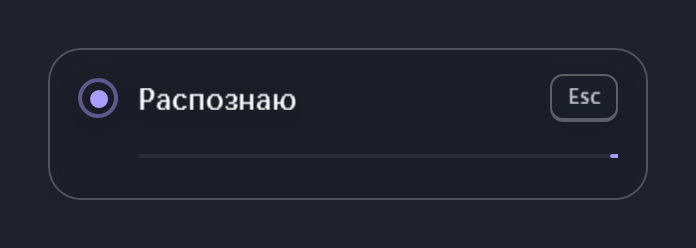
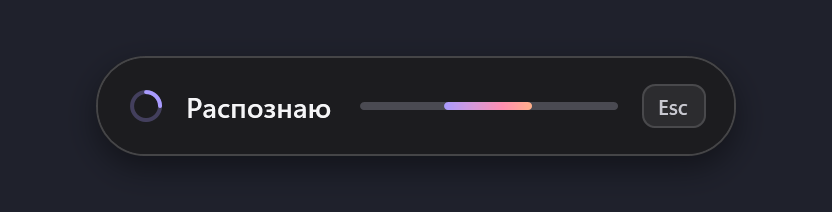
docs: Voice Input 1.1.0 — changelog, screenshots of the new interface, version
- version 1.1.0; the release script takes the version from Directory.Build.props
- README, architecture notes and the installer read-me describe the new interface
- product screenshots and banners are re-rendered from the real windows
- bundled documents avoid the letter yo

diff --git a/docs/architecture.html b/docs/architecture.html
@@ -15,7 +15,7 @@
 <body><main class="wrap">
 <div class="eyebrow">Architecture 0.3 · working local-first MVP</div>
 <h1 class="title"><span class="pulse"></span>Voice Input</h1>
-<p class="sub">Нативный Windows-путь: hotkey → аудио → локальный GigaAM → безопасная вставка в сохранённое поле.</p>
+<p class="sub">Нативный Windows-путь: hotkey → аудио → локальный GigaAM → безопасная вставка в сохраненное поле.</p>
 <div class="stage">
 <svg viewBox="0 0 1360 790" role="img" aria-label="Архитектура Voice Input">
 <defs>

diff --git a/tools/render-github-assets.py b/tools/render-github-assets.py
@@ -98,8 +98,27 @@ def base(size: tuple[int, int], margin: int) -> Image.Image:
     return im
 
 
+BACKDROP = (31, 33, 44)
+
+
+def overlay_tile(path: Path, size: tuple[int, int]) -> Image.Image:
+    """Снимок оверлея на плитке одного размера: окно оверлея прозрачное, высота зависит от состояния."""
+    shot = Image.open(path).convert("RGB")
+    tile = Image.new("RGB", (size[0] * 2, size[1] * 2), BACKDROP)
+    tile.paste(shot, ((tile.width - shot.width) // 2, (tile.height - shot.height) // 2))
+    return tile.resize(size, Image.Resampling.LANCZOS)
+
+
+def rounded(image: Image.Image, radius: int) -> Image.Image:
+    mask = Image.new("L", image.size, 0)
+    ImageDraw.Draw(mask).rounded_rectangle((0, 0, image.width - 1, image.height - 1), radius=radius, fill=255)
+    result = image.convert("RGBA")
+    result.putalpha(mask)
+    return result
+
+
 def render_product_demo() -> None:
-    """Настоящий интерфейс 1.0: слева состояния оверлея, справа окно настроек."""
+    """Настоящий интерфейс 1.1: слева шесть состояний оверлея, справа окно настроек."""
     size = (1440, 800)
     im = Image.new("RGB", size, PAPER)
     draw = ImageDraw.Draw(im)
@@ -107,41 +126,47 @@ def render_product_demo() -> None:
     draw.rectangle((0, 0, size[0], 172), fill=INK)
     draw.rectangle((0, 0, 12, size[1]), fill=INDIGO)
     draw.rectangle((12, 0, 16, size[1]), fill=SIGNAL)
-    tracking(draw, (74, 38), "VOICE INPUT 1.0 / WINDOWS 10 И 11", font(17), MUTED, 2)
+    tracking(draw, (74, 38), "VOICE INPUT 1.1 / WINDOWS 10 И 11", font(17), MUTED, 2)
     draw.text((70, 76), "Тихий оверлей и одно небольшое окно настроек.", font=font(46), fill=WHITE)
 
     product = OUT / "product"
-    overlay_w, overlay_h = 400, 144
+    # Снимки сделаны в 200 %: плитка ровно вдвое меньше, без повторной интерполяции текста.
+    tile_w, tile_h = 416, 125
+    columns = (70, 510)
+    rows = (214, 387, 560)
     cells = [
-        (70, 214, "01 / СЛУШАЮ", "listening.png"),
-        (500, 214, "02 / РАСПОЗНАЮ", "processing.png"),
-        (70, 414, "03 / ГОТОВО", "success.png"),
-        (500, 414, "04 / ОШИБКА ПРОСТЫМИ СЛОВАМИ", "error.png"),
+        ("01 / СЛУШАЮ", "listening.png"),
+        ("02 / РАСПОЗНАЮ", "processing.png"),
+        ("03 / ВСТАВЛЯЮ ТЕКСТ", "inserting.png"),
+        ("04 / ГОТОВО", "success.png"),
+        ("05 / НЕ УСЛЫШАЛ", "nospeech.png"),
+        ("06 / ОШИБКА ПРОСТЫМИ СЛОВАМИ", "error.png"),
     ]
-    for x, y, label, filename in cells:
+    im = im.convert("RGBA")
+    draw = ImageDraw.Draw(im)
+    for index, (label, filename) in enumerate(cells):
+        x, y = columns[index % 2], rows[index // 2]
         tracking(draw, (x, y), label, font(15), PAPER_MUTED, 2)
-        shot = Image.open(product / filename).convert("RGB").resize((overlay_w, overlay_h), Image.Resampling.LANCZOS)
-        draw.rounded_rectangle((x - 1, y + 30, x + overlay_w, y + 30 + overlay_h), radius=14, outline=PAPER_LINE, width=1)
-        im.paste(shot, (x, y + 31))
+        im.alpha_composite(rounded(overlay_tile(product / filename, (tile_w, tile_h)), 12), (x, y + 30))
 
     settings = Image.open(product / "settings.png").convert("RGB")
-    settings_w = 286
-    settings_h = round(settings.height * settings_w / settings.width)
+    settings_h = 471
+    settings_w = round(settings.width * settings_h / settings.height)
     settings = settings.resize((settings_w, settings_h), Image.Resampling.LANCZOS)
-    sx, sy = 1050, 214
-    tracking(draw, (sx, sy), "05 / НАСТРОЙКИ", font(15), PAPER_MUTED, 2)
+    sx, sy = 1370 - settings_w, 214
+    tracking(draw, (sx, sy), "07 / НАСТРОЙКИ", font(15), PAPER_MUTED, 2)
     shadow = Image.new("RGBA", size, (0, 0, 0, 0))
-    ImageDraw.Draw(shadow).rounded_rectangle((sx - 8, sy + 34, sx + settings_w + 8, sy + 38 + settings_h), radius=18, fill=(18, 28, 63, 40))
-    im = Image.alpha_composite(im.convert("RGBA"), shadow.filter(ImageFilter.GaussianBlur(14))).convert("RGB")
+    ImageDraw.Draw(shadow).rounded_rectangle((sx - 6, sy + 36, sx + settings_w + 6, sy + 40 + settings_h), radius=18, fill=(18, 28, 63, 46))
+    im = Image.alpha_composite(im, shadow.filter(ImageFilter.GaussianBlur(14)))
+    im.alpha_composite(rounded(settings, 10), (sx, sy + 30))
     draw = ImageDraw.Draw(im)
-    im.paste(settings, (sx, sy + 31))
 
     draw.line((70, 742, 1370, 742), fill=PAPER_LINE, width=2)
     tracking(draw, (70, 760), "ЗАПИСЬ / РАСПОЗНАВАНИЕ / ВСТАВКА", font(16), PAPER_INK, 2)
     footnote = "СНЯТО С НАСТОЯЩИХ ОКОН"
     footnote_x = 1370 - tracking_width(draw, footnote, font(16), 2)
     tracking(draw, (footnote_x, 760), footnote, font(16), PAPER_MUTED, 2)
-    im.save(OUT / "voice-input-product.png", optimize=True, quality=94)
+    im.convert("RGB").save(OUT / "voice-input-product.png", optimize=True, quality=94)
 
 
 if __name__ == "__main__":

diff --git a/scripts/build-release.py b/scripts/build-release.py
@@ -6,6 +6,7 @@ import hashlib
 import json
 import os
 from pathlib import Path
+import re
 import shutil
 import struct
 import subprocess
@@ -98,17 +99,31 @@ def publish(project: Path, output: Path, dotnet: Path, root: Path) -> None:
     )
 
 
+def project_version(root: Path) -> str:
+    """The version the application is built with: one source for the executable and the installer name."""
+    properties = (root / "Directory.Build.props").read_text(encoding="utf-8")
+    match = re.search(r"<Version>([^<]+)</Version>", properties)
+    if match is None:
+        raise RuntimeError("Directory.Build.props has no <Version>.")
+    return match.group(1).strip()
+
+
 def main() -> int:
+    root = Path(__file__).resolve().parents[1]
     parser = argparse.ArgumentParser(description="Build the self-contained Voice Input Windows installer.")
-    parser.add_argument("--version", default="1.0.0")
+    parser.add_argument("--version", default=project_version(root))
     parser.add_argument(
         "--with-local",
         action="store_true",
         help="Also bundle the optional local (GigaAM) engine: worker, runtime archive and model (about 300 MB).",
     )
     args = parser.parse_args()
+    if args.version != project_version(root):
+        raise RuntimeError(
+            f"--version {args.version} does not match Directory.Build.props ({project_version(root)}): "
+            "the settings window would show a different version than the installer."
+        )
 
-    root = Path(__file__).resolve().parents[1]
     dotnet = Path(os.environ.get("DOTNET_EXE", r"C:\Program Files\dotnet\dotnet.exe"))
     if not dotnet.is_file():
         raise FileNotFoundError(dotnet)

diff --git a/README.md b/README.md
@@ -24,13 +24,13 @@ Voice Input работает в системном трее. Речь распо
 
 Чтобы отменить запись или распознавание, нажмите `Esc`: текст не вставится, даже если ответ придет позже.
 
-![Оверлей и настройки Voice Input 1.0](<docs/assets/voice-input-product.png>)
+![Оверлей и настройки Voice Input 1.1](<docs/assets/voice-input-product.png>)
 
-*Оверлей в четырех состояниях и окно настроек Voice Input 1.0.*
+*Оверлей в шести состояниях и окно настроек Voice Input 1.1.*
 
 ## Что предусмотрено
 
-- **Видно, что происходит.** Оверлей показывает этап диктовки, таймер и уровень голоса, не забирая фокус. Поддерживается высокая контрастность.
+- **Видно, что происходит.** Оверлей показывает этап диктовки, таймер и уровень голоса, не забирая фокус и не перехватывая клики мыши. У каждого этапа свой знак, а не только цвет. Поддерживается высокая контрастность.
 - **Проверка окна перед вставкой.** Если активно другое окно, текст не вставляется.
 - **Восстановление буфера обмена.** После вставки возвращается прежнее содержимое, если за это время оно не изменилось.
 - **До 10 минут на запись.** На лимите запись останавливается, сказанное распознается и вставляется.
@@ -43,10 +43,12 @@ Voice Input работает в системном трее. Речь распо
 
 Откройте настройки двойным щелчком по значку Voice Input в трее.
 
-- **API-ключ OpenAI:** добавьте или замените ключ кнопкой «Сохранить». Доступны «Проверить» и «Удалить ключ»; после сохранения проверка запускается автоматически.
+- **API-ключ OpenAI:** добавьте или замените ключ кнопкой «Сохранить» или клавишей `Enter`. Доступны «Проверить» и «Удалить ключ»; после сохранения проверка запускается автоматически.
 - **Язык речи:** «Определять автоматически», «Русский», «English», «Українська» или «Deutsch» — подсказка для облачного распознавания.
 - **Микрофон:** конкретное устройство или «По умолчанию в Windows». Новый выбор применяется со следующей записи.
 - **Автозапуск:** «Запускать вместе с Windows».
+
+Окном можно управлять с клавиатуры: `Tab` переходит между полями, `Esc` закрывает окно.
 
 Микрофон можно сменить и из меню трея. Если выбранное устройство не подключено к началу записи, используется микрофон Windows по умолчанию.
 
@@ -54,14 +56,14 @@ Voice Input работает в системном трее. Речь распо
 
 Нужны Windows 10 1809+ / 11 x64, микрофон, интернет и собственный API-ключ OpenAI. Распознавание оплачивается с вашего аккаунта OpenAI.
 
-1. Откройте [последний релиз](https://github.com/pavel-logachev/voice-input/releases/latest) и скачайте `VoiceInput-Setup-1.0.0.exe`.
+1. Откройте [последний релиз](https://github.com/pavel-logachev/voice-input/releases/latest) и скачайте установщик `VoiceInput-Setup-<версия>.exe`.
 2. Запустите установщик. Права администратора не нужны. Установщик пока не подписан сертификатом, поэтому Windows SmartScreen может предупредить о неизвестном издателе.
 3. При первом запуске откроется окно настроек. Вставьте API-ключ OpenAI (начинается с `sk-`) и нажмите «Сохранить» — ключ сразу проверится.
 4. Поставьте курсор в любое поле ввода и зажмите `Ctrl + Shift + Space`.
 
 Перед запуском установщика сверьте его SHA-256 со значением на странице релиза.
 
-При обновлении с 0.9.x устанавливайте новую версию поверх старой: ключ и настройки сохранятся. При удалении программы ключ удаляется вместе с ней.
+При обновлении с 1.0.0 или 0.9.x устанавливайте новую версию поверх старой: ключ и настройки сохранятся. При удалении программы ключ удаляется вместе с ней.
 
 ## Приватность
 
@@ -96,13 +98,15 @@ dotnet build VoiceInput.sln -c Release
 dotnet test VoiceInput.sln -c Release --no-build
 ```
 
-Автотесты проверяют диктовку и отмену, запись на подставном устройстве, клиент OpenAI, хранение ключа и настроек, горячие клавиши и вставку текста. [CI](https://github.com/pavel-logachev/voice-input/actions/workflows/ci.yml) собирает решение и запускает тесты на Windows при каждом push и pull request в `main`.
+Автотесты проверяют диктовку и отмену, запись на подставном устройстве, клиент OpenAI, хранение ключа и настроек, горячие клавиши, вставку текста и контраст цветов интерфейса. [CI](https://github.com/pavel-logachev/voice-input/actions/workflows/ci.yml) собирает решение и запускает тесты на Windows при каждом push и pull request в `main`.
 
-Отрисовка настоящих окон в PNG без записи речи:
+Отрисовка настоящих окон и меню трея в PNG без записи речи:
 
 ```bash
 dotnet run --project tests/VoiceInput.UiPreview -c Release -- preview
 ```
+
+По умолчанию картинки снимаются в масштабе 200 %. Другой масштаб задает `--dpi=96` (100 %) или `--dpi=144` (150 %), вид в высокой контрастности — `--high-contrast`.
 
 Для тестов и параллельных запусков предусмотрены переменные:
 
@@ -110,11 +114,11 @@ dotnet run --project tests/VoiceInput.UiPreview -c Release -- preview
 - `VOICE_INPUT_INSTANCE_NAME` — имя защиты от второго экземпляра.
 - `VOICE_INPUT_DIAGNOSTIC_LOG` — путь к диагностическому журналу.
 
-**Локальное распознавание доступно в сборке из исходников, но не в установщике 1.0.0.** Выбор «На этом компьютере (GigaAM)» появляется, если рядом с приложением есть `worker/VoiceInput.Asr.Worker.exe`. При первом включении загружаются runtime и модель — около 200 МБ, с проверкой SHA-256. После загрузки локальный движок работает офлайн, без ключа OpenAI.
+**Локальное распознавание доступно в сборке из исходников, но не в установщике.** Выбор «На этом компьютере (GigaAM)» появляется, если рядом с приложением есть `worker/VoiceInput.Asr.Worker.exe`. При первом включении загружаются runtime и модель — около 200 МБ, с проверкой SHA-256. После загрузки локальный движок работает офлайн, без ключа OpenAI.
 
 ## Ограничения
 
-- В установщике 1.0.0 нет офлайн-режима: для диктовки нужны интернет и API-ключ OpenAI.
+- В установщике нет офлайн-режима: для диктовки нужны интернет и API-ключ OpenAI.
 - Сочетания клавиш фиксированы, переназначить их в настройках нельзя.
 - Windows блокирует вставку из обычного процесса в программы, запущенные от имени администратора.
 - Приложение запоминает окно, а не конкретное поле: внутри того же окна текст попадет туда, где курсор стоит в момент вставки.
@@ -127,7 +131,7 @@ dotnet run --project tests/VoiceInput.UiPreview -c Release -- preview
 ## Документы и лицензия
 
 - [Что нового](<CHANGELOG.md>) — изменения по версиям.
-- [Архитектура](<docs/ARCHITECTURE.md>) — устройство версии 1.0 и история решений для 0.5.
+- [Архитектура](<docs/ARCHITECTURE.md>) — устройство версий 1.x и история решений для 0.5.
 - [Исследование локальных моделей](<docs/MODEL_RESEARCH.md>) — выбор модели и runtime для локального распознавания.
 - [Как участвовать](<CONTRIBUTING.md>).
 - [Политика безопасности](<SECURITY.md>) — как сообщить об уязвимости.

diff --git a/CHANGELOG.md b/CHANGELOG.md
@@ -1,9 +1,45 @@
 # Что нового
 
-## В работе
+## 1.1.0
 
+Обновление интерфейса: оверлей, окно настроек и меню в трее приведены к одному виду. Горячие клавиши, запись, распознавание, вставка и хранение ключа не менялись.
+
+### Оверлей
+
+- **Капсула вместо карточки.** Ширина по содержимому: «Готово» больше не занимает пятую часть пустой карточки, а подпись не смещается между этапами.
+- **У каждого этапа свой знак**: точка записи, дуга распознавания, текстовый курсор, галочка, прочерк «не услышал», восклицательный знак ошибки. Раньше этапы различались только цветом точки, а в высокой контрастности не различались совсем.
+- **Уровень звука — волна со значка**: полосы от фиолетового к янтарному, в конце белый курсор.
+- **Таймер записи виден всегда.** Раньше он пропадал, если в Windows выключены анимации, а индикатор распознавания без анимации выглядел сломанным.
+- **Настоящая тень и ровные края.** Акриловое размытие убрано: ради него окно обрезалось без сглаживания, и тени было негде рисоваться.
+- **Текст ошибки** переносится без одинокого слова в последней строке.
+- **Клики мыши** проходят сквозь оверлей к окну под ним.
+
+### Настройки
+
+- **Окно стало ниже на четверть** (610 вместо 805 пунктов) и помещается на экране 1920×1080 при масштабе 150 %. Для меньших экранов — тонкая темная полоса прокрутки вместо светлой системной.
+- **Клавиатура.** Фокус виден на каждом элементе и остается на месте после изменения настройки. `Enter` в поле ключа сохраняет ключ (раньше закрывал окно, и ключ терялся), `Esc` закрывает окно.
+- **Поля.** У поля ключа скругленные углы и подсказка; длинное название микрофона обрезается многоточием; в списке отмечен выбранный пункт; автозапуск включается переключателем; клавиши выровнены по правому краю.
+- **Высокая контрастность** поддержана: окно берет цвета темы Windows.
+- **Заголовок окна** окрашен в цвет окна (Windows 11), значок в шапке четкий при любом масштабе.
+
+### Меню в трее
+
+- **Подменю читаются.** Цвет текста задается каждому подменю: в 1.0.0 пункты подменю «Микрофон» рисовались темным текстом на темном фоне.
+- **Сочетания клавиш** стоят отдельной колонкой; в первой строке — точка состояния; на Windows 11 у меню скругленные углы.
+- **Шрифт и размеры.** На Windows 10, где нет Segoe UI Variable, используется Segoe UI; отступы и отметки следуют масштабу экрана.
+
+### Под капотом
+
+- Одна палитра (`Theme.cs`) на оверлей, настройки и трей; контраст текста и знаков проверяют тесты.
+- В строках интерфейса и документах вместо буквы с двумя точками пишется «е»; за этим следит тест.
 - Запись звука переведена на NAudio 3.1.0. Для пользователя ничего не меняется: тот же формат, тот же индикатор громкости.
 - Очень короткое нажатие клавиши записи больше не может «подвесить» запись: остановка дожидается запуска устройства. В проверку на настоящем микрофоне добавлены десять таких нажатий подряд.
+- `VoiceInput.UiPreview` снимает меню трея, открытый список, кольцо фокуса, любой масштаб (`--dpi=`) и высокую контрастность (`--high-contrast`).
+- Сборка установщика берет версию из `Directory.Build.props`.
+
+### Тесты
+
+156 автоматических тестов (было 146).
 
 ## 1.0.0
 

diff --git a/docs/ARCHITECTURE.md b/docs/ARCHITECTURE.md
@@ -1,6 +1,6 @@
 # Voice Input — архитектурное видение
 
-**Статус:** 1.0 — облачное распознавание OpenAI с окном настроек; необязательный локальный движок остается в исходниках. Документ совмещает текущую реализацию (раздел «Что изменилось в 1.0») и исходное архитектурное видение 0.5 (остальные разделы)
+**Статус:** 1.1 — облачное распознавание OpenAI с окном настроек; необязательный локальный движок остается в исходниках. Документ совмещает текущую реализацию (раздел «Что изменилось в 1.0») и исходное архитектурное видение 0.5 (остальные разделы)
 **Целевая платформа:** Windows 10/11  
 **Суть:** резидентное приложение, которое по глобальной горячей клавише записывает речь, расшифровывает ее и вставляет результат в то поле, где находился курсор.
 
@@ -34,7 +34,9 @@
 
 **Запись звука.** `WasapiPushToTalkRecorder` работает через `IAudioCaptureSession`, поэтому его правила проверяются тестами без микрофона: остановка с таймаутом, освобождение устройства в фоне (новая запись ждет его освобождения), автоостановка по потере устройства и по лимиту 10 минут. Рабочий процесс завершает запись и по отпусканию клавиши, и по `WaitForRecordingEndAsync`.
 
-**Интерфейс.** Оверлей (`MainWindow`) показывает этап цветным индикатором, полосы уровня звука и подсказку `Esc`; окно настроек (`SettingsWindow`) общается с приложением через узкий интерфейс `ISettingsHost` и не трогает движки и файлы сам. Инструмент `VoiceInput.UiPreview` рисует настоящие окна в PNG для проверки дизайна и документации.
+**Интерфейс (с 1.1).** Оверлей (`MainWindow`) — капсула шириной по содержимому: знак этапа, подпись, уровень звука в виде волны со значка, таймер и подсказка `Esc`. У каждого этапа своя фигура и свой цвет, поэтому этапы различимы и в высокой контрастности. Когда есть вторая строка — ошибка или пояснение, — капсула вырастает в карточку, а текст переносится без одинокого слова в конце. Окно прозрачное, не берет фокус и пропускает клики мыши (`WS_EX_NOACTIVATE`, `WS_EX_TRANSPARENT`). Акрилового размытия из 0.5 больше нет: оно требовало обрезать окно регионом без сглаживания и не оставляло места тени.
+
+Все цвета оверлея, окна настроек и меню трея заданы одной палитрой (`Theme`); в высокой контрастности ее заменяют системные цвета. Окно настроек (`SettingsWindow`) общается с приложением через узкий интерфейс `ISettingsHost` и не трогает движки и файлы сам. Меню трея (`TrayMenu`, `TrayMenuRenderer`) собирается отдельно от приложения, которое только привязывает действия. Инструмент `VoiceInput.UiPreview` рисует настоящие окна и меню в PNG — в любом масштабе и в высокой контрастности — для проверки дизайна и документации.
 
 ### Реализовано к 0.5 (2026-07-28)
 

diff --git a/SECURITY.md b/SECURITY.md
@@ -2,7 +2,7 @@
 
 ## Поддерживаемый релиз
 
-Исправления безопасности вносятся в текущую линию релизов `1.0.x` и в `main`. Версии 0.x не поддерживаются.
+Исправления безопасности вносятся в текущую линию релизов `1.x` и в `main`. Версии 0.x не поддерживаются.
 
 ## Как сообщить
 

diff --git a/CONTRIBUTING.md b/CONTRIBUTING.md
@@ -18,7 +18,7 @@ dotnet build VoiceInput.sln -c Release
 dotnet test VoiceInput.sln -c Release --no-build
 ```
 
-Настоящие окна можно отрисовать в PNG без записи речи:
+Настоящие окна и меню трея можно отрисовать в PNG без записи речи:
 
 ```bash
 dotnet run --project tests/VoiceInput.UiPreview -c Release -- preview
